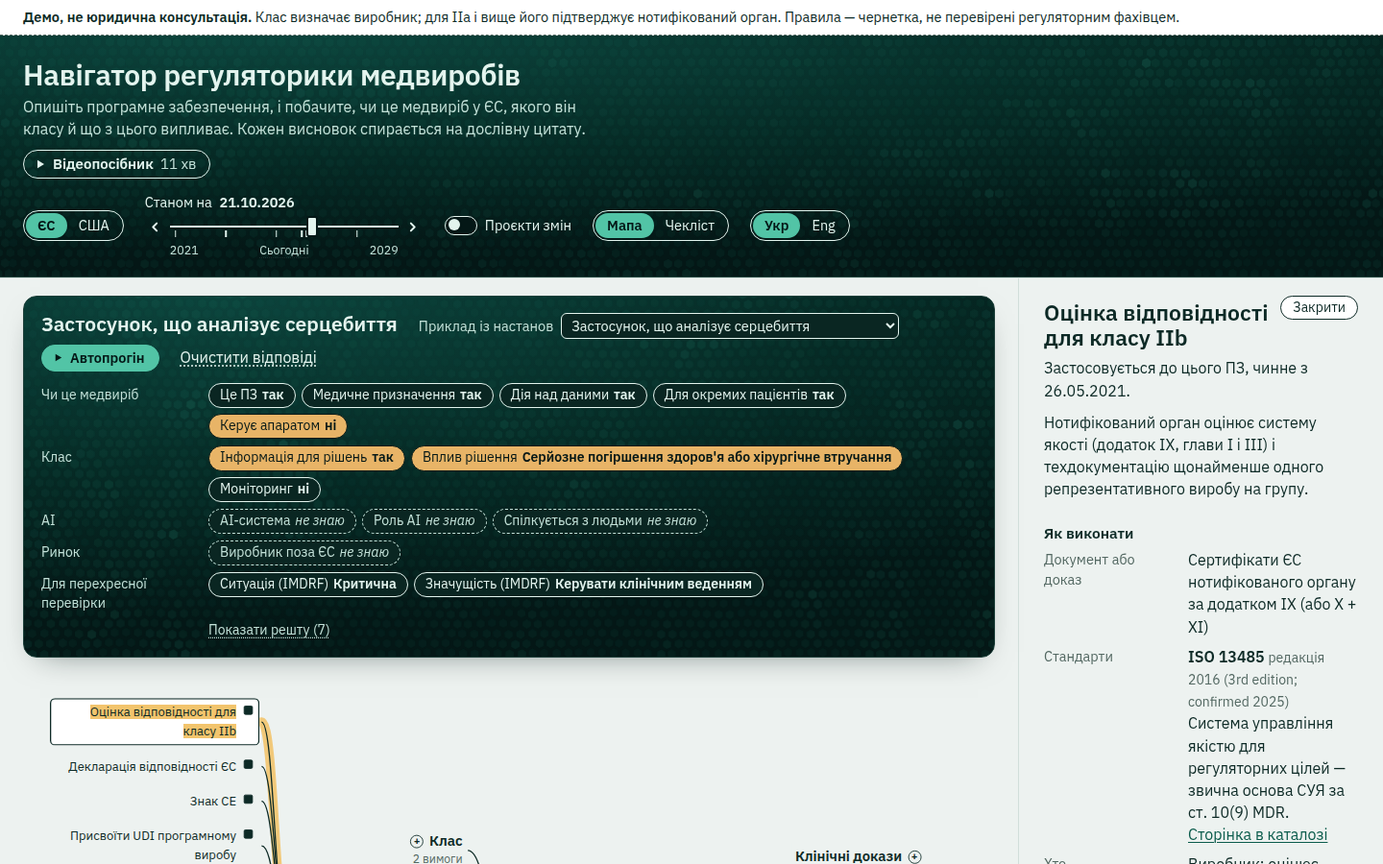
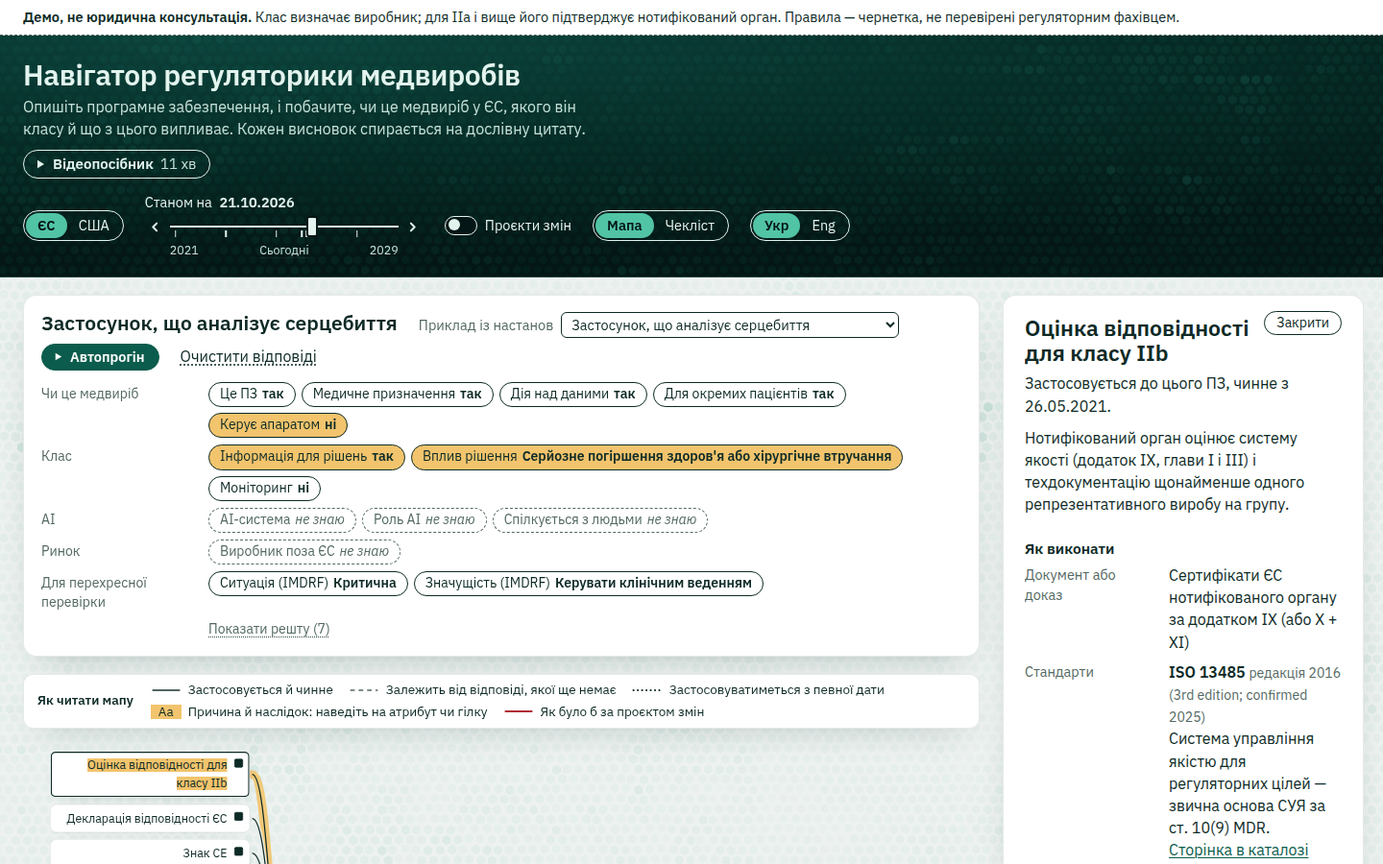
Docs: the second version of the sea and of the run's card; screenshots retaken
DECISIONS U12 (the sea under everything below the masthead, the whirlpool
and the flow, the calmer river with pigeon waves, islands, the legend on
the map, the paper under the lines) and U13 (the card between the
description and the map, two columns, the folded quote, the scroll on a
press). README, SPEC and ARCHITECTURE follow; BUILD_LOG records the
change and its checks. All eleven screenshots retaken.

diff --git a/docs/DECISIONS.md b/docs/DECISIONS.md
@@ -76,8 +76,8 @@
 | U9 | **Знімок даних — віртуальні модулі Vite**, які будує той самий білдер, що й `pnpm mrn snapshot` (`apps/cli/src/snapshot.ts`): модель (~220 КБ) іде з застосунком, тексти процитованих секцій (~320 КБ) — окремий чанк, що вантажиться з першою цитатою. Окремої копії даних у репозиторії немає. |
 | U10 | **React Flow пропускає події миші крізь вузол**, який не можна ні виділити, ні перетягнути (`pointer-events: none`). Наші вузли тримають кнопки, тож кожен вузол має `style.pointerEvents = "all"`. Знайдено e2e-тестом у Chromium: у happy-dom цього не видно. |
 | U11 | **Червона ручка — проєкти змін** (перемикач «Проєкти змін», `w=1` в URL). На драбині класів — лише коли проєкт її змінює: клас за проєктом обведено (суцільно — визначений, пунктиром — ще можливий), клас, який проєкт виключив би, закреслено; під драбиною словами «За проєктом: …». Листок, який проєкт змінює, має червоний рядок «за проєктом: …» і обведену позначку; ребро до нього червоне, але зберігає візерунок свого стану (чорнило, олівець, крапки). Вимоги, що застосовувалися б лише за проєктом, лишаються на мапі. Гілка пише, скільки пунктів змінює проєкт; питання, потрібні лише проєкту, — червоним пунктиром («Що вирішить за проєктом:»). Картка правила класу й чекліст мають секцію «Якби проєкт ухвалили» з червоною лінією на полі: результат і «що вирішило» за проєктом (дослівні цитати COM(2025) 1023), змінені вимоги, матриця переходів когорти (змінені клітинки червоні), умови узгодженості й приклади MDCG. Колір ніде не єдиний носій сенсу. |
-| U12 | **Вигляд як в інших демо автора** — [CQL demo](https://ytsuhen.github.io/CQL-Demo-Yevenko/) і [First Visit](https://ytsuhen.github.io/Pub-demos/first-visit/) (рішення Андрія, 28.10.2026). Будова екрана та сама (мапа, картка, чекліст), міняється лише вигляд. **Палітра «море»:** світлі й темні токени CQL demo (`--bg`, `--surface`, `--ink`, `--muted`, `--line`, `--accent`, `--amber`, `--fail`, `--sea-*`), схема — за налаштуванням системи. Семантика U1 та сама: чорнило — `--ink`, олівець — `--muted` пунктиром, крапки — чорнило крапками, червона ручка — `--fail`, маркер — бурштинова заливка під чорнилом (у темній схемі сам `--amber`; у світлій — світліший відтінок того самого тону, `#f2c46d`, бо темний `--amber` під чорнилом не читається). `--accent` — лише те, що натискають (кнопки, посилання, кільце фокусу), а не стан. Контраст AA перевірено для обох схем і для шапки над найяскравішим шестикутником: текст ≥ 4,5:1, римські цифри виключених класів (великий текст) ≥ 3:1. **Шрифти замість U2:** IBM Plex Sans — наш голос (інтерфейс, пояснення, і заголовок демо: це наш текст); Source Serif 4 — голос закону (дослівні цитати, посилання на джерела, римські цифри класів); JetBrains Mono — хеш секції й зсуви цитати. Усі з `@fontsource`, з кирилицею, офлайн (SIL OFL 1.1). Plex ширший за Arsenal: вузол гілки — 212 px замість 196, назви гілок 17 px; розклад і далі рахує d3-hierarchy за виміряними висотами. **Вода з шестикутників** (`lib/waves.ts`, «Adapted from ytsuhen/Pub-demos (first-visit), same author»), як уточнив Андрій після перегляду (28.10): **спокійне «море» — у полі опису ПЗ** (заголовок, приклад, чипи — темна панель, як чат у CQL demo), а **в шапці — жвавіша «річка»**: брижі витягнуті вздовж течії, що несе їх зліва направо (≈ 40–50 px/с), і змінюються швидше, але не яскравіші. Обидві смуги темні в обох схемах. Поля малюються WebGL2 одним викликом на кадр; без справжньої відеокарти — на 2D-полотні, і разом забирають ≈ десяту частину часу сторінки; простоюють поза екраном і у фоновій вкладці; при `prefers-reduced-motion` — один статичний кадр. Поля приглушені (×0,62 до яскравості First Visit), щоб текст на них мав AA; чипи «олівцем» на воді мають суцільне тло. На мапу й картки поле не накладається. **Переливання на дію** (`lib/sheen.ts`): натиснутий елемент (кнопка, чип, відповідь, перемикач, крок автопрогону) ≈ 0,8 с переливається фіолетовим у зеленкувато-бірюзовий, як шия голуба; шестикутники відповідають хвилею тих самих кольорів, як рішення в CQL demo підсвічує шестикутники довкола себе: дія в полі опису ПЗ (зокрема чип, що змінився на кроці автопрогону) — довкола себе в морі; дія в шапці — у річці; дія нижче (мапа, чекліст, картка) — від нижнього краю моря над нею. Це відгук, а не стан: окремий шар поверх елемента, що нічого не лишає й не несе сенсу. При `prefers-reduced-motion` — нічого, лише звичайне кільце фокусу. Відеопосібник записано до цієї зміни. |
-| U13 | **Автопрогін** (рішення Андрія, 28.10.2026): кнопка «Автопрогін» біля «Приклад із настанов» бере поточний опис ПЗ (приклад або відповіді з посилання) за ціль і проходить його з чистого аркуша. **Кроки — чиста функція в ядрі** (`guidedRun`, `packages/core/src/guided.ts`): кожен крок — перше питання `navigate().questions` (перша вирішальна невідома в порядку читання правил), якого прогін ще не минув; відповідь бере з опису, а якої немає — зупиняється й питає просто в картці кроку («Так» / «Ні» / варіанти / «Не знаю»). «Не знаю» лишає атрибут невідомим, і прогін іде до наступного питання. Тож жоден крок не питає вже відомого, і кожне питання — один раз. Перехресна перевірка MDCG у кроки не входить (вона необов'язкова, U5); її відповіді з опису приходять у підсумок. **Закривальний крок «Решта відповідей з опису»** з'являється лише тоді, коли без нього кінець відрізнявся б від `navigate()` на цілі: за тризначної логіки дві відповіді можуть мати значення лише разом (наприклад, «вплив рішення» і «клас апарата» разом виключають IIb, коли «не знаю» лишило відкритими обидва шляхи до нього), і жодна з них поодинці не є вирішальною невідомою, тож питанням не стає. Знайшов це властивісний тест на випадкових описах; на 23 прикладах MDCG і трьох описах, з якими показують демо, такого кроку немає (ні з «не знаю», ні з відповідями на відкриті питання). **Картка кроку:** «Крок k з N» (N — для відповідей, відомих зараз; питання, що чекає, рахується як «не знаю», доки на нього не відповіли), питання з `attributes.json` і відповідь («З опису» / «Ваша відповідь» / «Не знаю»), що змінилося (можливі результати правил у порядку екрана — кваліфікація, клас, нотифікований орган, AI Act — і скільки вимог застосовується), вузол, що вирішив (перший листок правила, який крок визначив, з його дослівною цитатою, перевіреною в браузері; якщо змінилися лише вимоги — сама вимога з цитатою правової основи). **Підсумок:** результат кожного правила, що лишилося невідомим, і які НПА виконувати — застосовні вимоги, згруповані за актом (регламенти, потім рішення; настанови й веб-сторінки — ні) і статтею з їхніх власних цитат, з датами чинності станом на обрану дату. Нового юридичного тексту немає: назви вимог — наші слова з каталогу, посилання на статті — з `sections.json`. **Відтворення:** крок ≈ 4 с, пауза, «Назад» і «Далі» (не далі питання, що чекає), ←/→ і пробіл (не тоді, коли фокус у полі вводу чи на кнопці); мапа й чекліст показують стан кроку, змінені чип, гілки й правила переливаються (U12). Відповідь, дана деінде на екрані під час прогону (чип, мапа, чекліст), іде в прогін; «Зупинити автопрогін» лишає опис разом із відповідями, даними дорогою. Крок — в адресі (`g` позиція, `gt` ціль, `ga` відповіді, «~» — «не знаю»; U8); посилання відкриває той самий крок на паузі. Картка — `aria-live`; на широкому екрані з мапою вона на полі замість картки прикладу, інакше (чекліст, телефон, планшет) — над чипами. |
+| U12 | **Вигляд як в інших демо автора** — [CQL demo](https://ytsuhen.github.io/CQL-Demo-Yevenko/) і [First Visit](https://ytsuhen.github.io/Pub-demos/first-visit/) (рішення Андрія, 28.10.2026). Будова екрана та сама (мапа, картка, чекліст), міняється лише вигляд. **Палітра «море»:** світлі й темні токени CQL demo (`--bg`, `--surface`, `--ink`, `--muted`, `--line`, `--accent`, `--amber`, `--fail`, `--sea-*`), схема — за налаштуванням системи. Семантика U1 та сама: чорнило — `--ink`, олівець — `--muted` пунктиром, крапки — чорнило крапками, червона ручка — `--fail`, маркер — бурштинова заливка під чорнилом (у темній схемі сам `--amber`; у світлій — світліший відтінок того самого тону, `#f2c46d`, бо темний `--amber` під чорнилом не читається). `--accent` — лише те, що натискають (кнопки, посилання, кільце фокусу), а не стан. Контраст AA перевірено для обох схем і для шапки над найяскравішим шестикутником: текст ≥ 4,5:1, римські цифри виключених класів (великий текст) ≥ 3:1. **Шрифти замість U2:** IBM Plex Sans — наш голос (інтерфейс, пояснення, і заголовок демо: це наш текст); Source Serif 4 — голос закону (дослівні цитати, посилання на джерела, римські цифри класів); JetBrains Mono — хеш секції й зсуви цитати. Усі з `@fontsource`, з кирилицею, офлайн (SIL OFL 1.1). Plex ширший за Arsenal: вузол гілки — 228 px разом із полями острівця (за Arsenal був 196), назви гілок 17 px; розклад і далі рахує d3-hierarchy за виміряними висотами. **Вода з шестикутників** (`lib/waves.ts`, «Adapted from ytsuhen/Pub-demos (first-visit), same author»), як вирішив Андрій після перегляду (28.10, друга версія): **море — під усім, що нижче шапки**, у світлій схемі світле й мілке, у темній — глибоке. **У центрі мапи, довкола медвиробу, — спокійний вир** (оберт ≈ 40 с, слабшає з відстанню), **від центру вздовж ліній мапи — тиха течія** (≈ 26 px/с, трохи жвавіша за вир, однакова для всіх видів ліній: сенсу не несе). Де вузол пристрою (`data-whirl`) і лінії (`path[data-flow]`), полотно читає зі сторінки, тож вир і течія йдуть за автоматичним розкладом. **Шапка — темна «річка» в обох схемах**, на ≈ 40 % спокійніша, ніж у першій версії: брижі витягнуті вздовж течії, що несе їх зліва направо (≈ 25–30 px/с); раз на 10–15 с нею пробігає голуб'яча хвиля (фіолетовий, що переливається в бірюзовий). **Текст — лише на острівцях:** опис ПЗ, картка автопрогону, легенда, вузли мапи, картка на полі й чекліст — суцільні аркуші з тінню, а між ними видно воду. Лінії мапи лежать на воді, на тонкій смужці паперу: чорнило, олівець, крапки й червона ручка мають той самий контраст, що й на папері (на самій воді бліда лінія «не застосовується» мала б лише ≈ 2,1:1). **Легенда — на самій мапі** (смужка над нею): видна, хоч би що показувала картка на полі, і під карткою автопрогону. Полотно моря заввишки з вікно лишається у вікні, поки сторінка гортається; шестикутники прив'язані до сторінки. Поля малюються WebGL2 одним викликом на кадр; без справжньої відеокарти річка йде на 2D-полотні (≈ десята частина часу сторінки), а море малюється один раз і стоїть; простоюють поза екраном і у фоновій вкладці; при `prefers-reduced-motion` — один статичний кадр. Глибока вода (річка, темне море) приглушена до ×0,62 від яскравості First Visit, світле море — бліда бірюза; текст шапки на річці має AA. **Переливання на дію** (`lib/sheen.ts`): натиснутий елемент (кнопка, чип, відповідь, перемикач, крок автопрогону) ≈ 0,8 с переливається фіолетовим у зеленкувато-бірюзовий, як шия голуба; шестикутники відповідають хвилею тих самих кольорів, як рішення в CQL demo підсвічує шестикутники довкола себе: дія під шапкою (зокрема чип, що змінився на кроці автопрогону) — довкола себе в морі; дія в шапці — у річці. Це відгук, а не стан: окремий шар поверх елемента, що нічого не лишає й не несе сенсу. При `prefers-reduced-motion` — нічого, лише звичайне кільце фокусу. Відеопосібник записано до цієї зміни. |
+| U13 | **Автопрогін** (рішення Андрія, 28.10.2026): кнопка «Автопрогін» біля «Приклад із настанов» бере поточний опис ПЗ (приклад або відповіді з посилання) за ціль і проходить його з чистого аркуша. **Кроки — чиста функція в ядрі** (`guidedRun`, `packages/core/src/guided.ts`): кожен крок — перше питання `navigate().questions` (перша вирішальна невідома в порядку читання правил), якого прогін ще не минув; відповідь бере з опису, а якої немає — зупиняється й питає просто в картці кроку («Так» / «Ні» / варіанти / «Не знаю»). «Не знаю» лишає атрибут невідомим, і прогін іде до наступного питання. Тож жоден крок не питає вже відомого, і кожне питання — один раз. Перехресна перевірка MDCG у кроки не входить (вона необов'язкова, U5); її відповіді з опису приходять у підсумок. **Закривальний крок «Решта відповідей з опису»** з'являється лише тоді, коли без нього кінець відрізнявся б від `navigate()` на цілі: за тризначної логіки дві відповіді можуть мати значення лише разом (наприклад, «вплив рішення» і «клас апарата» разом виключають IIb, коли «не знаю» лишило відкритими обидва шляхи до нього), і жодна з них поодинці не є вирішальною невідомою, тож питанням не стає. Знайшов це властивісний тест на випадкових описах; на 23 прикладах MDCG і трьох описах, з якими показують демо, такого кроку немає (ні з «не знаю», ні з відповідями на відкриті питання). **Картка кроку:** «Крок k з N» (N — для відповідей, відомих зараз; питання, що чекає, рахується як «не знаю», доки на нього не відповіли), питання з `attributes.json` і відповідь («З опису» / «Ваша відповідь» / «Не знаю»), що змінилося (можливі результати правил у порядку екрана — кваліфікація, клас, нотифікований орган, AI Act — і скільки вимог застосовується), вузол, що вирішив (перший листок правила, який крок визначив, з його дослівною цитатою, перевіреною в браузері; якщо змінилися лише вимоги — сама вимога з цитатою правової основи). **Підсумок:** результат кожного правила, що лишилося невідомим, і які НПА виконувати — застосовні вимоги, згруповані за актом (регламенти, потім рішення; настанови й веб-сторінки — ні) і статтею з їхніх власних цитат, з датами чинності станом на обрану дату. Нового юридичного тексту немає: назви вимог — наші слова з каталогу, посилання на статті — з `sections.json`. **Відтворення:** крок ≈ 4 с, пауза, «Назад» і «Далі» (не далі питання, що чекає), ←/→ і пробіл (не тоді, коли фокус у полі вводу чи на кнопці); мапа й чекліст показують стан кроку, змінені чип, гілки й правила переливаються (U12). Відповідь, дана деінде на екрані під час прогону (чип, мапа, чекліст), іде в прогін; «Зупинити автопрогін» лишає опис разом із відповідями, даними дорогою. Крок — в адресі (`g` позиція, `gt` ціль, `ga` відповіді, «~» — «не знаю»; U8); посилання відкриває той самий крок на паузі. Картка — `aria-live`. Спершу вона стояла на полі замість картки прикладу й зсувала все; після перегляду (28.10) Андрій вирішив поставити її між описом ПЗ і мапою (чи чеклістом) на будь-якому екрані. Вона компактна: угорі — де прогін і керування, нижче дві колонки — ліворуч питання й відповідь, праворуч що змінилося й що вирішило (на телефоні — одна колонка); цитату вузла згорнуто під «Дослівна цитата, перевірена в браузері», перевірка та сама. Натиснули «Автопрогін» — сторінка сама прокручується до картки, тож мапа одразу під нею; посилання на крок лишає сторінку вгорі, з банером. |
 
 ## Відкриті питання для регуляторного фахівця
 

diff --git a/docs/ARCHITECTURE.md b/docs/ARCHITECTURE.md
@@ -238,22 +238,22 @@ market stands on exactly one branch.
 | `src/state.tsx` | `AppProvider` / `useApp()`: language, market, view, as-of date, answers, example, expanded branch, card selection, proposals, attribute editor, hover, the guided run (its description, the answers given on the way, the position, playing; the reducer works the run out again and puts its position's answers on screen); `described` (the description, the run's end while it is on); mirrored in the URL hash |
 | `src/lib/route.ts` | `encodeRoute`, `parseRoute`, `encodeProfile`, `parseProfile`, `encodeAnswers`, `parseAnswers`: `#m=EU&v=map&d=…&x=<example>&p=attr.value_…&b=<branch>&s=o.<obligation>\|r.<rule>\|x&w=1&l=en`, and for the guided run `g=<position>&gt=<description>&ga=<answers, ~ = don't know>` |
 | `src/lib/guided.ts` | `guidedState(model, input, asOf)` (the run, the position kept within reach), `profileAt(run, at)`, `stepAt`, `lastReachable`, `presentedRules(market)`, `actsOf(snapshot, navigation)` (the requirements that apply by legal act and article from their quotes, in reading order) |
-| `src/components/Guided.tsx` | `GuidedButton`, `GuidedCard` (the step: question, answer or the answer control, what changed, what decided it with its quote; the blank sheet; the summary), `useGuidedPlayback(screen)` (a step every `STEP_MS`, ←/→ and space, the sheen on `changedKeys`) |
+| `src/components/Guided.tsx` | `GuidedButton`, `GuidedCard` (an island between the description and the map, brought to the top when the run is started with a press: the head with the position and the controls, the track, then the step in two columns — question, answer or the answer control; what changed, what decided it with its folded quote — or the blank sheet, or the summary), `useGuidedPlayback(screen)` (a step every `STEP_MS`, ←/→ and space, the sheen on `changedKeys`) |
 | `src/data.tsx` | `DataProvider`, `useSnapshot()`, `useSections()` (lazy), `useScreen()`: `navigate()` + `buildView()` memoised per state |
 | `src/lib/view.ts` | `changedKeys(before, after)` (the `data-flash` keys of what changed between two screens: chips, branches, rules); `buildView(snapshot, market, navigation, profile)` → `ScreenView`: device (qualification, ladder steps value/possible/excluded, the proposal's steps and questions), branches (state open / in-force / upcoming / none, leaves, counts, support, questions — each question once on the map — and how many leaves the proposal changes), leaves (with `proposal`: a rule's outcomes or an obligation's state under the proposal, when different), chips (shown / folded / needed only for the proposal), leaves by key |
 | `src/lib/layout.ts` | `layoutMap(input)` → positions: device centred, branches by side, the expanded branch's leaves beyond it; `d3-hierarchy` tidy trees per side with measured heights |
 | `src/lib/quotes.ts` | `verifyQuote`, `sectionSha256`, `quoteView(citation, section, context, format)` (window + display reflow), `reflow`, `hostOf` |
 | `src/lib/dates.ts` | `todayIso`, `toDays` / `fromDays`, `formatDate(iso, lang)`, `keyDates(model)`, `sliderRange` |
-| `src/components/MapView.tsx` | React Flow canvas: device node (label with the class ladder and its first question), branch nodes (inline question), leaf nodes, ink edges (solid / dashed / dotted, marker underlay on hover); with proposals on, the red pen (`data-proposal`); viewport fitted to the width |
-| `src/components/DeviceChips.tsx` | The description of the software, a dark band over the calm sea: preset picker, the guided run's button, attribute chips by group (answered, decisive unknown, folded rest), the attribute editor with the concept's quote |
-| `src/components/Card.tsx` | The margin note: obligation (how to comply, depends on, legal basis, guidance), rule (result, questions, what decided it, why not stricter, and with proposals on the proposal's section), device (the example's quote and our reading, the map's legend) |
+| `src/components/MapView.tsx` | The legend, a strip on the map; React Flow canvas: device node (label with the class ladder and its first question; `data-whirl` for the sea), branch nodes (inline question), leaf nodes — islands over the sea — and ink edges (solid / dashed / dotted, on a paper casing, marker underlay on hover; `path[data-flow]` for the sea); with proposals on, the red pen (`data-proposal`); viewport fitted to the width |
+| `src/components/DeviceChips.tsx` | The description of the software, the first island under the masthead: preset picker, the guided run's button, attribute chips by group (answered, decisive unknown, folded rest), the attribute editor with the concept's quote |
+| `src/components/Card.tsx` | The margin note, an island beside the map: obligation (how to comply, depends on, legal basis, guidance), rule (result, questions, what decided it, why not stricter, and with proposals on the proposal's section), device (the example's quote and our reading) |
 | `src/components/Proposal.tsx` | `ProposalSection` ("if the proposal were adopted": result and what decided it under the revision, changed requirements, the cohort's transition matrix with its coherence conditions, the MDCG examples; heading level and folding set by the host), `proposalWords(leaf, t, lang)` |
 | `src/components/Questions.tsx` | `useAsk` (open an attribute's editor), `QuestionList`, `SupportList` (shared by the card, the proposal section, the map) |
 | `src/components/Checklist.tsx` | The same content as a document: rule results, open questions with inline answers, each branch's obligations; with proposals on, the same red-pen lines and the proposal's section |
 | `src/components/Explain.tsx`, `Quote.tsx`, `Shell.tsx`, `ui.tsx` | Witness lists (heading level set by the host); quotes with context and the browser's check (the hash and offsets in mono); banner, masthead (a dark band over the river; market, as-of slider with key dates, proposals, view, language), next-stage placeholder, footer; shared controls, the device's name and `rich` (a message with elements in its placeholders) |
-| `src/lib/waves.ts` | `startWaves(canvas, host, "webgl2" \| "2d", { water: "sea" \| "river", anyGl?, share? })` → `{ renderer, light(x, y, reach), stop() }`: a hexagon field (DECISIONS U12; adapted from ytsuhen/Pub-demos first-visit) — the calm sea or the river whose ripples run along a current; idle off screen and in a hidden tab, one static frame under reduced motion; without a graphics card the 2D painter takes at most `share` of the page's time |
+| `src/lib/waves.ts` | `startWaves(canvas, host, "webgl2" \| "2d", { water: "sea" \| "river", palette?, origin?, geometry?, wander?, animate2d?, anyGl?, share? })` → `{ renderer, light(x, y, reach), stop() }`: a hexagon field (DECISIONS U12; adapted from ytsuhen/Pub-demos first-visit) — the sea (its `palette` read each frame, `SHALLOW` or `DEEP`; its grid fixed to the page through `origin`; in WebGL2 a whirlpool round the device and a flow along the map's lines from `geometry`, read every 400 ms into a flow map in a texture) or the river whose ripples run along a current, with a pigeon wave now and then (`wander`); one instanced draw a frame; idle off screen and in a hidden tab, one static frame under reduced motion; without a graphics card the 2D painter takes at most `share` of the page's time, or draws once (`animate2d: false`) |
 | `src/lib/sheen.ts` | `sheen(el)` (the iridescent layer over an element, following it while it moves, and a light on the waves), `sheenKeys(keys)` (every `[data-flash]` with one of the keys), `installSheen(document)` (a delegated click listener), `addLightSink` (a field of waves hears every sheen), `reducedMotion` |
-| `src/components/Waves.tsx` | `HexWaves({ water, below? })`: the canvas behind a dark band (`.sea-band`: the masthead's river, the description's sea); WebGL2 first, a fresh canvas for the 2D painter when it fails; lights its hexagons round an action inside its band and, with `below`, along its bottom edge for one below it |
+| `src/components/Waves.tsx` | `HexWaves({ water })`: the river behind the masthead (`.sea-band`), or the sea under the work area (`.page-sea`: a canvas the window's height that stays in view as the page scrolls; it follows the colour scheme and reads the map from the page — `[data-whirl]`, `path[data-flow]`); WebGL2 first, a fresh canvas for the 2D painter when it fails; lights its hexagons round an action inside its area |
 | `src/i18n/dict.ts` | Every UI string in Ukrainian and English, with plural forms |
 
 Tests: `apps/web/test` (vitest; components under happy-dom) — view model (proposals included), layout (no overlap,
@@ -262,10 +262,13 @@ components, the banner word for word), the app and the map in a DOM, the proposa
 section and the checklist's red pen. `apps/web/e2e` (`pnpm e2e`, not in `verify`): the static build served under
 `/MedRegNav/` in a preinstalled Chromium — offline, no console errors, inline answers, verified quotes, the as-of step
 into 2 August 2028, the proposals switch, the checklist, a phone viewport; `design.e2e.ts` checks the look (U12): the
-three fonts, the river and the sea on a 2D canvas and in WebGL2 (a software one allowed by `__wavesAnyGL`) and no canvas
-over the map or the cards, the sheen and its absence
-under reduced motion, every map label inside its node at 1440 and 390 px; `screens.e2e.ts` writes the README's
-screenshots (`MRN_DOCS_SCREENS=docs/screens pnpm e2e apps/web/e2e/screens.e2e.ts`). Chromium is found through
+three fonts, the river in the masthead and the sea under the work area on a 2D canvas and in WebGL2 (a software one
+allowed by `__wavesAnyGL`; there the sea whirls round the device and flows along the lines), the sea in view as a long
+page scrolls, no canvas inside the islands, the legend on the map beside a card and during the guided run, the sheen
+and its absence under reduced motion, every map label inside its node at 1440 and 390 px; `guided.e2e.ts` walks the
+guided run (U13), with the card brought to the top on a press and the page left at its banner by a link;
+`screens.e2e.ts` writes the README's screenshots
+(`MRN_DOCS_SCREENS=docs/screens pnpm e2e apps/web/e2e/screens.e2e.ts`). Chromium is found through
 `MRN_CHROMIUM`, else `PLAYWRIGHT_BROWSERS_PATH` (`chromium-*/chrome-linux*/chrome`), else `/opt/pw-browsers`; it is never
 downloaded by the tests. `e2e/peek.ts` is a developer aid, not a test: `pnpm build:web && pnpm exec tsx
 apps/web/e2e/peek.ts <outDir> 1440x900 '<hash>'…` saves screenshots of URL states (`PEEK_DARK=1`, `PEEK_FULL=0`,

diff --git a/README.md b/README.md
@@ -36,8 +36,9 @@
 - **Автопрогін.** Кнопка «Автопрогін» біля «Приклад із настанов» проходить поточний опис ПЗ (приклад або відповіді з
   посилання) з чистого аркуша: кожен крок — перше питання, яке поставили б правила в тому порядку, у якому їх читають.
   Відповідь прогін бере з опису, а якої в описі немає — питає просто в картці кроку; «Не знаю» лишає її невідомою, і
-  прогін іде далі. Картка кроку показує питання й відповідь, що змінилося (можливі класи, кваліфікація, нотифікований
-  орган, AI Act, скільки вимог застосовується) і вузол, що вирішив, з дослівною цитатою, перевіреною в браузері.
+  прогін іде далі. Картка кроку стоїть між описом ПЗ і мапою: питання й відповідь, що змінилося (можливі класи,
+  кваліфікація, нотифікований орган, AI Act, скільки вимог застосовується) і вузол, що вирішив, з дослівною цитатою
+  (згорнутою; браузер її перевіряє).
   Наприкінці — підсумок: результат кожного правила, що лишилося невідомим, і які акти виконувати: застосовні вимоги за
   актом і статтею з їхніх цитат, з датами чинності станом на обрану дату. Крок триває ≈ 4 с; є пауза, «Назад» і «Далі»,
   клавіші ← → і пробіл; мапа й чекліст оновлюються на кожному кроці, змінені чип і гілки коротко переливаються; крок
@@ -92,7 +93,7 @@
 | ![Чекліст: ті самі дані як документ](docs/screens/05-checklist.png) | **Чекліст.** Повна альтернатива мапі з тих самих даних: результати правил, відкриті питання з відповідями просто в списку, обов'язки з «як виконати» й цитатами. |
 | ![Телефон: чекліст за замовчуванням](docs/screens/06-phone.png) | **На телефоні** чекліст — подання за замовчуванням. |
 | ![Темна схема, англійська](docs/screens/07-dark-en.png) | **Англійська й темна схема** — перемикачем мови й за налаштуванням системи. |
-| ![Автопрогін, крок 7 з 11: «Чи керує ПЗ апаратним медвиробом?» — з опису «ні»; клас стає IIb, картка цитує правило застосування 3.3](docs/screens/09-guided-step.png) | **Автопрогін.** Застосунок, що аналізує серцебиття, з чистого аркуша: на сьомому кроці відповідь «не керує апаратом» лишає тільки клас IIb. Картка показує, що змінилося, і вузол, що вирішив, з дослівною цитатою. |
+| ![Автопрогін, крок 7 з 11: «Чи керує ПЗ апаратним медвиробом?» — з опису «ні»; клас стає IIb, картка цитує правило застосування 3.3](docs/screens/09-guided-step.png) | **Автопрогін.** Застосунок, що аналізує серцебиття, з чистого аркуша: на сьомому кроці відповідь «не керує апаратом» лишає тільки клас IIb. Картка між описом і мапою: ліворуч питання й відповідь, праворуч що змінилося й вузол, що вирішив, з дослівною цитатою (тут розгорнутою). |
 | ![Підсумок автопрогону: результати правил, нічого не лишилося невідомим, вимоги за актом і статтею](docs/screens/10-guided-summary.png) | **Підсумок.** Результат кожного правила, що лишилося невідомим, і які акти виконувати: застосовні вимоги, згруповані за актом і статтею з їхніх цитат, з датами чинності. |
 | ![Автопрогін на телефоні: картка кроку над чеклістом](docs/screens/11-guided-phone.png) | **Автопрогін на телефоні** — картка кроку над чеклістом. |
 
@@ -166,5 +167,6 @@ sha256, витягнутий текст):
 повторне використання дозволено за рішенням Комісії 2011/833/ЄС, вміст сайтів Єврокомісії — за CC BY 4.0. Зміни:
 витягнуто текст, нормалізовано пробіли й символи, прибрано службові маркери консолідації; оригінали збережено без змін.
 Шрифти IBM Plex Sans, Source Serif 4 і JetBrains Mono — SIL Open Font License 1.1; React Flow — MIT. Вигляд (палітра
-«море»: спокійне море з шестикутників у полі опису ПЗ і жвавіша річка в шапці) — як в інших демо автора:
+«море»: море з шестикутників під усім, що нижче шапки, зі спокійним виром довкола медвиробу й тихою течією вздовж ліній
+мапи, текст — на острівцях; у шапці — річка з голуб'ячими хвилями) — як в інших демо автора:
 [CQL demo](https://ytsuhen.github.io/CQL-Demo-Yevenko/) і [First Visit](https://ytsuhen.github.io/Pub-demos/first-visit/).

diff --git a/docs/BUILD_LOG.md b/docs/BUILD_LOG.md
@@ -479,4 +479,16 @@ README про перехідні положення каже лише загал
   в тій самій сесії: панель опису ПЗ стала темною смугою зі спокійним морем шестикутників (як чат у CQL demo), а в шапці
   тепер річка — брижі біжать уздовж течії зліва направо й змінюються швидше, але не яскравіші, тож контраст тексту той
   самий. Мапа й картки лишилися чистими. Перевірено тими самими тестами (190 + 24 e2e) і знімками.
+- **Друга версія після перегляду** (28.10): ти передумав — море під усім, що нижче шапки; шапка спокійніша, з
+  голуб'ячими хвилями; у центрі мапи довкола медвиробу спокійний вир, від центру вздовж ліній тиха течія; легенда
+  завжди видима; картка автопрогону — між описом ПЗ і мапою, бо на полі вона все зсувала. Мої рекомендації ти прийняв:
+  текст лише на острівцях, картка компактна, у дві колонки, зі згорнутою цитатою, і сама доїжджає вгору на старті;
+  легенда — смужкою на самій мапі; WebGL одним викликом на кадр, без відеокарти море стоїть. Зроблено в тій самій
+  сесії (U12, U13). Дорогою порахував контраст ліній мапи на найгіршій воді: бліда лінія гілки «не застосовується»
+  мала б лише 2,1:1, тож під лінії ліг тонкий папір, і контраст той самий, що був на папері. Ще одне уточнення: на
+  сторінку, відкриту посиланням на крок, прокрутка не діє, щоб банер-дисклеймер лишався вгорі. Перевірено:
+  `pnpm verify` (190 тестів), `pnpm e2e` (25 тестів; нові — море під робочою зоною лишається у вікні, вир і течія в
+  WebGL2, легенда на мапі під карткою автопрогону, картка вгорі після натискання й банер на місці після посилання),
+  справжній браузер із відеокартою (WebGL2, вир є, 22 відрізки течії, картка доїжджає вгору) і знімки Playwright
+  (світла й темна схема, англійська, телефон).
 - **Не зроблено:** гілку не злито в main і Pages не запускано — це твій крок після перегляду.

diff --git a/docs/SPEC.md b/docs/SPEC.md
@@ -76,9 +76,10 @@
 Як це втілено (DECISIONS U1–U13): у вузлі пристрою — драбина класів I · IIa · IIb · III, де визначений клас виділено
 маркером, а можливі — підкреслено пунктиром; чорнило — усталене, олівець — чекає відповіді, крапки — з дати, маркер —
 причина й наслідок, червона ручка — проєкти змін. Що де показати, каже `data/navigator.json`; кожну цитату браузер
-перевіряє за sha256 секції. Ринок США — заглушка «наступний етап». Вигляд — як в інших демо автора (палітра «море»,
-спокійне море з шестикутників у полі опису ПЗ і жвавіша річка в шапці, коротке переливання на дію; U12). «Автопрогін» проходить опис з чистого аркуша питаннями
-навігатора, з карткою кроку й підсумком «які акти виконувати» (U13).
+перевіряє за sha256 секції. Ринок США — заглушка «наступний етап». Вигляд — як в інших демо автора (палітра «море»:
+море з шестикутників під усім, що нижче шапки, з виром довкола медвиробу й течією вздовж ліній мапи; текст на
+острівцях; річка з голуб'ячими хвилями в шапці; коротке переливання на дію; U12). «Автопрогін» проходить опис з чистого
+аркуша питаннями навігатора, з карткою кроку між описом і мапою й підсумком «які акти виконувати» (U13).
 
 ## 6. Аналіз
 
